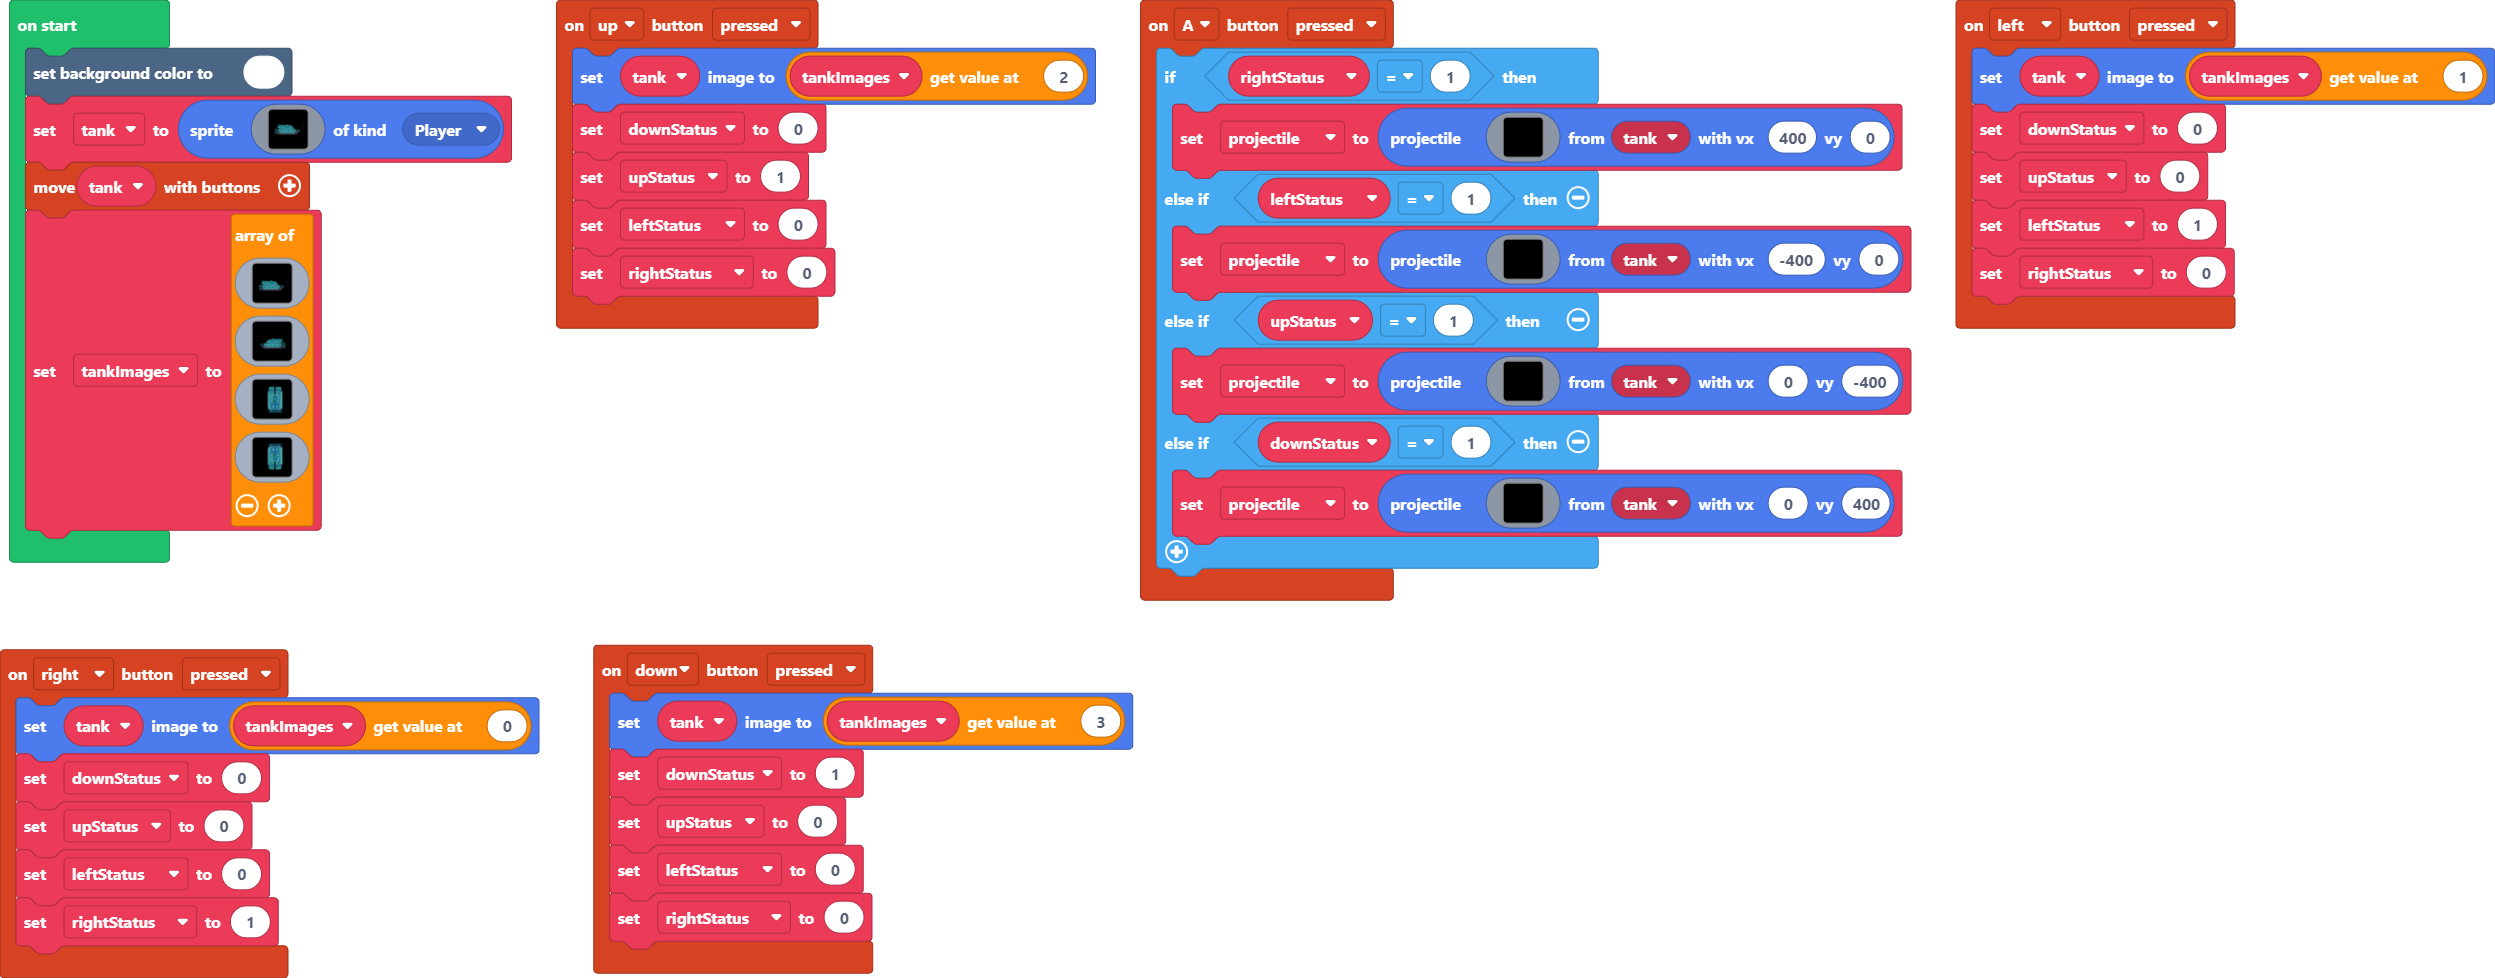
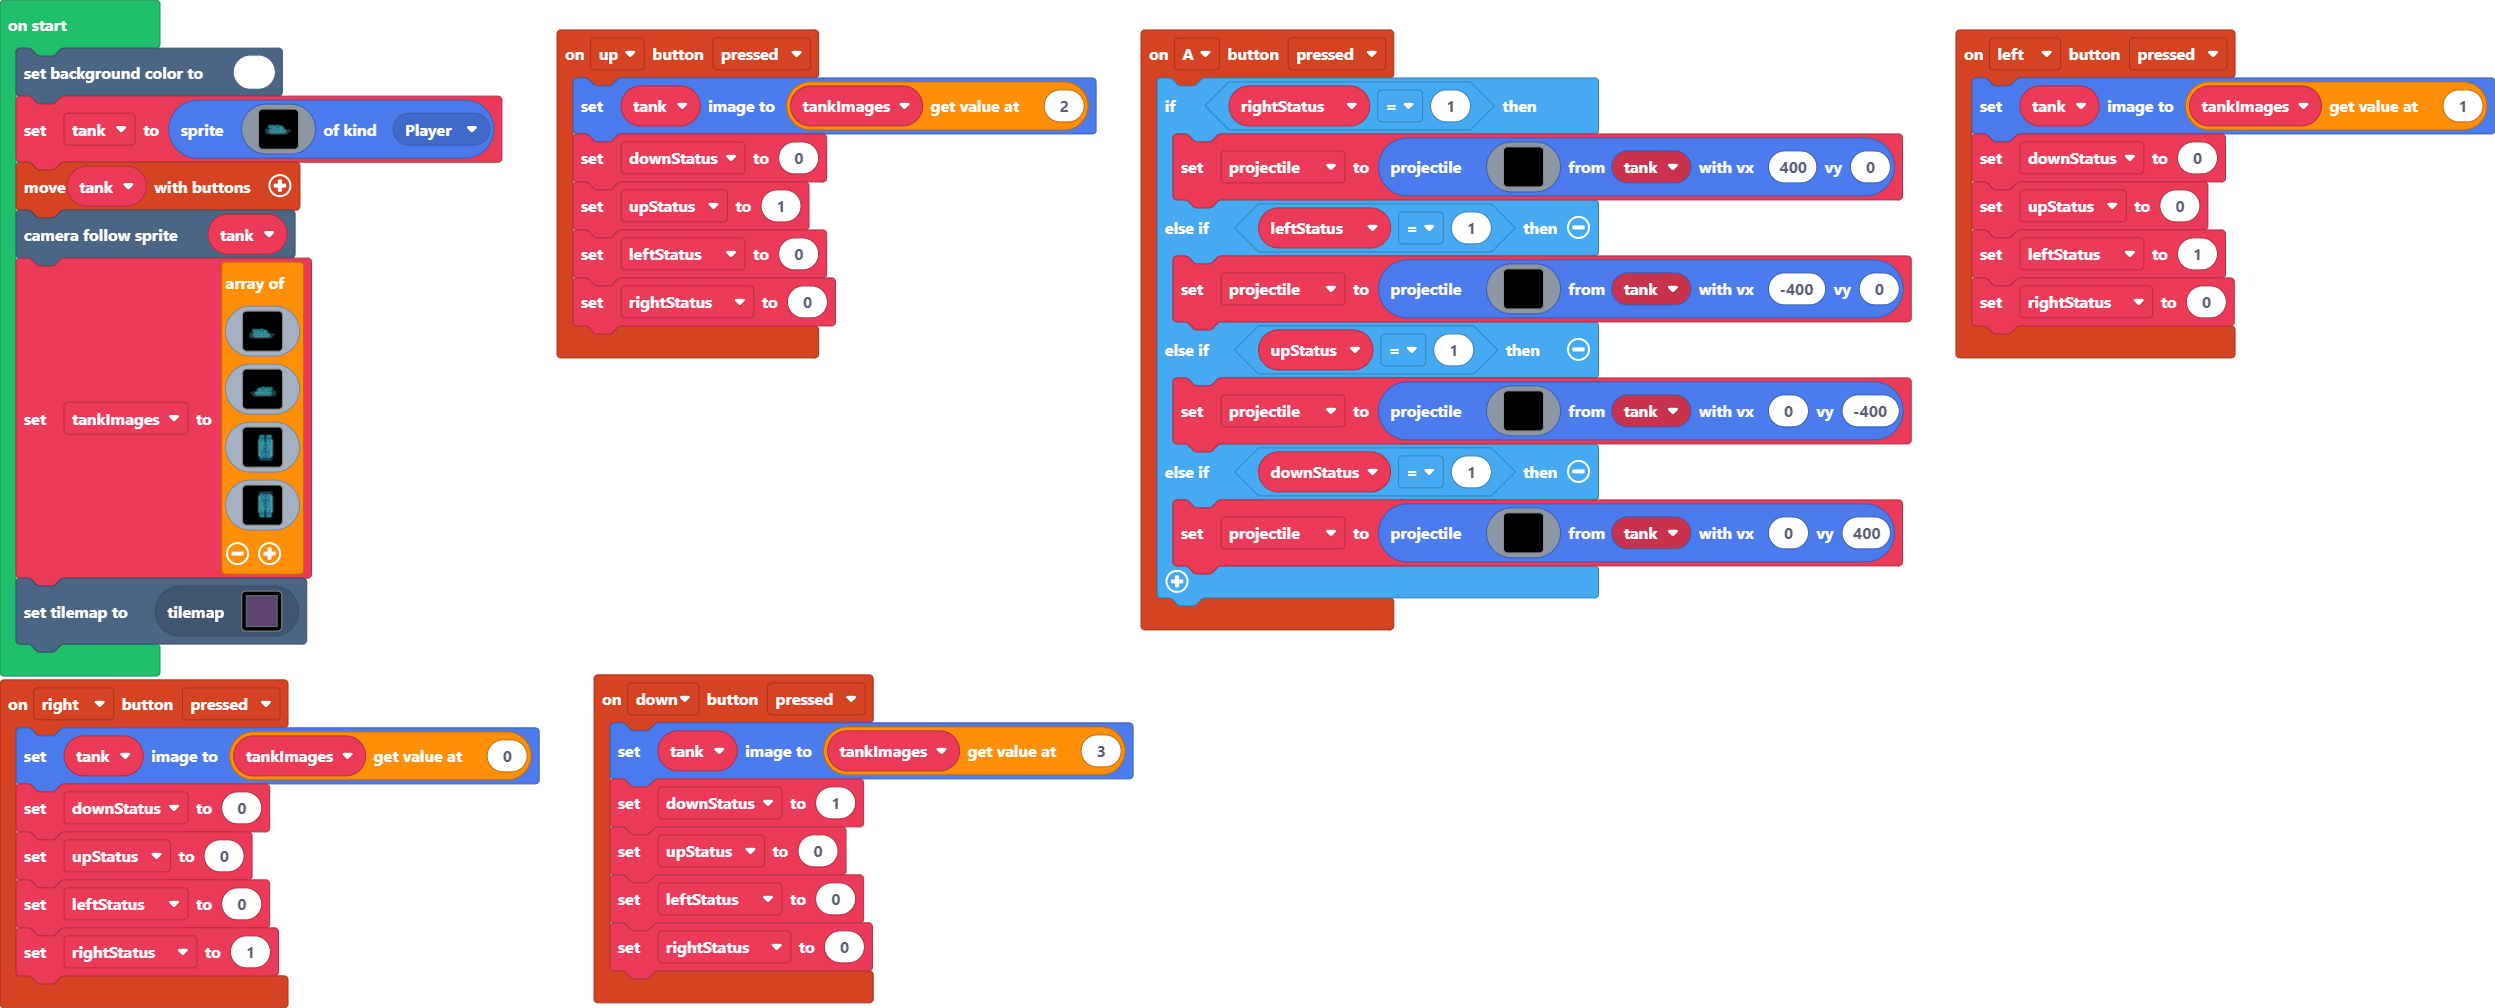
Update main.blocks, main.ts, tilemap.g.jres, tilemap.g.ts

Changed region(s): [[0.0, 0.0, 1.0, 0.9816], [0.216, 0.6442, 0.4629, 0.9509]]

diff --git a/tilemap.g.ts b/tilemap.g.ts
@@ -6,7 +6,7 @@ namespace myTiles {
     helpers._registerFactory("tilemap", function(name: string) {
         switch(helpers.stringTrim(name)) {
             case "level1":
[2 lines of base64/hex data omitted]
 22222222222222222222222222222222
 2..............................2
 2..............................2
@@ -39,7 +39,254 @@ namespace myTiles {
 2..............................2
 2..............................2
 22222222222222222222222222222222
-`, [myTiles.transparency16,sprites.dungeon.greenOuterNorthWest,sprites.dungeon.greenOuterNorth0,sprites.dungeon.greenOuterNorthEast,sprites.dungeon.greenOuterEast0,sprites.dungeon.greenOuterSouth1,sprites.dungeon.greenOuterWest0,sprites.dungeon.greenOuterSouthEast,sprites.dungeon.greenOuterSouthWest,sprites.dungeon.darkGroundNorth,sprites.dungeon.darkGroundEast,sprites.dungeon.darkGroundSouthEast0,sprites.dungeon.darkGroundNorthEast0,sprites.dungeon.darkGroundNorthWest0,sprites.dungeon.darkGroundSouthWest0,sprites.dungeon.darkGroundWest,sprites.dungeon.darkGroundSouth,sprites.dungeon.darkGroundCenter], TileScale.Sixteen);
+`, [myTiles.transparency16,sprites.dungeon.darkGroundNorthWest0,sprites.dungeon.greenOuterNorthWest,sprites.dungeon.greenOuterNorth0,sprites.dungeon.greenOuterEast0,sprites.dungeon.greenOuterNorthEast,sprites.dungeon.greenOuterSouthWest,sprites.dungeon.greenOuterSouthEast,sprites.dungeon.greenOuterSouth1,sprites.dungeon.greenOuterWest0,sprites.dungeon.darkGroundNorthEast0,sprites.dungeon.darkGroundSouthEast0,sprites.dungeon.darkGroundSouthWest0,sprites.dungeon.darkGroundSouth,sprites.dungeon.darkGroundWest,sprites.dungeon.darkGroundNorth,sprites.dungeon.darkGroundEast,sprites.dungeon.darkGroundCenter], TileScale.Sixteen);
+            case "level2":
+            case "level2":return tiles.createTilemap(hex`1000100000000000000000000000000000000000000000000000000000000000000000000000000000000000000000000000000000000000000000000000000000000000000000000000000000000000000000000000000000000000000000000000000000000000000000000000000000000000000000000000000000000000000000000000000000000000000000000000000000000000000000000000000000000000000000000000000000000000000000000000000000000000000000000000000000000000000000000000000000000000000000000000000000000000000000000000000000000000000000000000000000000000000000000000000000000000`, img`
+. . . . . . . . . . . . . . . . 
+. . . . . . . . . . . . . . . . 
+. . . . . . . . . . . . . . . . 
+. . . . . . . . . . . . . . . . 
+. . . . . . . . . . . . . . . . 
+. . . . . . . . . . . . . . . . 
+. . . . . . . . . . . . . . . . 
+. . . . . . . . . . . . . . . . 
+. . . . . . . . . . . . . . . . 
+. . . . . . . . . . . . . . . . 
+. . . . . . . . . . . . . . . . 
+. . . . . . . . . . . . . . . . 
+. . . . . . . . . . . . . . . . 
+. . . . . . . . . . . . . . . . 
+. . . . . . . . . . . . . . . . 
+. . . . . . . . . . . . . . . . 
+`, [myTiles.transparency16], TileScale.Sixteen);
+            case "level3":
+            case "level3":return tiles.createTilemap(hex`1000100000000000000000000000000000000000000000000000000000000000000000000000000000000000000000000000000000000000000000000000000000000000000000000000000000000000000000000000000000000000000000000000000000000000000000000000000000000000000000000000000000000000000000000000000000000000000000000000000000000000000000000000000000000000000000000000000000000000000000000000000000000000000000000000000000000000000000000000000000000000000000000000000000000000000000000000000000000000000000000000000000000000000000000000000000000000`, img`
+. . . . . . . . . . . . . . . . 
+. . . . . . . . . . . . . . . . 
+. . . . . . . . . . . . . . . . 
+. . . . . . . . . . . . . . . . 
+. . . . . . . . . . . . . . . . 
+. . . . . . . . . . . . . . . . 
+. . . . . . . . . . . . . . . . 
+. . . . . . . . . . . . . . . . 
+. . . . . . . . . . . . . . . . 
+. . . . . . . . . . . . . . . . 
+. . . . . . . . . . . . . . . . 
+. . . . . . . . . . . . . . . . 
+. . . . . . . . . . . . . . . . 
+. . . . . . . . . . . . . . . . 
+. . . . . . . . . . . . . . . . 
+. . . . . . . . . . . . . . . . 
+`, [myTiles.transparency16], TileScale.Sixteen);
+            case "level4":
+            case "level4":return tiles.createTilemap(hex`1000100000000000000000000000000000000000000000000000000000000000000000000000000000000000000000000000000000000000000000000000000000000000000000000000000000000000000000000000000000000000000000000000000000000000000000000000000000000000000000000000000000000000000000000000000000000000000000000000000000000000000000000000000000000000000000000000000000000000000000000000000000000000000000000000000000000000000000000000000000000000000000000000000000000000000000000000000000000000000000000000000000000000000000000000000000000000`, img`
+. . . . . . . . . . . . . . . . 
+. . . . . . . . . . . . . . . . 
+. . . . . . . . . . . . . . . . 
+. . . . . . . . . . . . . . . . 
+. . . . . . . . . . . . . . . . 
+. . . . . . . . . . . . . . . . 
+. . . . . . . . . . . . . . . . 
+. . . . . . . . . . . . . . . . 
+. . . . . . . . . . . . . . . . 
+. . . . . . . . . . . . . . . . 
+. . . . . . . . . . . . . . . . 
+. . . . . . . . . . . . . . . . 
+. . . . . . . . . . . . . . . . 
+. . . . . . . . . . . . . . . . 
+. . . . . . . . . . . . . . . . 
+. . . . . . . . . . . . . . . . 
+`, [myTiles.transparency16], TileScale.Sixteen);
+            case "level5":
+            case "level5":return tiles.createTilemap(hex`1000100000000000000000000000000000000000000000000000000000000000000000000000000000000000000000000000000000000000000000000000000000000000000000000000000000000000000000000000000000000000000000000000000000000000000000000000000000000000000000000000000000000000000000000000000000000000000000000000000000000000000000000000000000000000000000000000000000000000000000000000000000000000000000000000000000000000000000000000000000000000000000000000000000000000000000000000000000000000000000000000000000000000000000000000000000000000`, img`
+. . . . . . . . . . . . . . . . 
+. . . . . . . . . . . . . . . . 
+. . . . . . . . . . . . . . . . 
+. . . . . . . . . . . . . . . . 
+. . . . . . . . . . . . . . . . 
+. . . . . . . . . . . . . . . . 
+. . . . . . . . . . . . . . . . 
+. . . . . . . . . . . . . . . . 
+. . . . . . . . . . . . . . . . 
+. . . . . . . . . . . . . . . . 
+. . . . . . . . . . . . . . . . 
+. . . . . . . . . . . . . . . . 
+. . . . . . . . . . . . . . . . 
+. . . . . . . . . . . . . . . . 
+. . . . . . . . . . . . . . . . 
+. . . . . . . . . . . . . . . . 
+`, [myTiles.transparency16], TileScale.Sixteen);
+            case "level6":
+            case "level6":return tiles.createTilemap(hex`1000100000000000000000000000000000000000000000000000000000000000000000000000000000000000000000000000000000000000000000000000000000000000000000000000000000000000000000000000000000000000000000000000000000000000000000000000000000000000000000000000000000000000000000000000000000000000000000000000000000000000000000000000000000000000000000000000000000000000000000000000000000000000000000000000000000000000000000000000000000000000000000000000000000000000000000000000000000000000000000000000000000000000000000000000000000000000`, img`
+. . . . . . . . . . . . . . . . 
+. . . . . . . . . . . . . . . . 
+. . . . . . . . . . . . . . . . 
+. . . . . . . . . . . . . . . . 
+. . . . . . . . . . . . . . . . 
+. . . . . . . . . . . . . . . . 
+. . . . . . . . . . . . . . . . 
+. . . . . . . . . . . . . . . . 
+. . . . . . . . . . . . . . . . 
+. . . . . . . . . . . . . . . . 
+. . . . . . . . . . . . . . . . 
+. . . . . . . . . . . . . . . . 
+. . . . . . . . . . . . . . . . 
+. . . . . . . . . . . . . . . . 
+. . . . . . . . . . . . . . . . 
+. . . . . . . . . . . . . . . . 
+`, [myTiles.transparency16], TileScale.Sixteen);
+            case "level7":
+            case "level7":return tiles.createTilemap(hex`1000100000000000000000000000000000000000000000000000000000000000000000000000000000000000000000000000000000000000000000000000000000000000000000000000000000000000000000000000000000000000000000000000000000000000000000000000000000000000000000000000000000000000000000000000000000000000000000000000000000000000000000000000000000000000000000000000000000000000000000000000000000000000000000000000000000000000000000000000000000000000000000000000000000000000000000000000000000000000000000000000000000000000000000000000000000000000`, img`
+. . . . . . . . . . . . . . . . 
+. . . . . . . . . . . . . . . . 
+. . . . . . . . . . . . . . . . 
+. . . . . . . . . . . . . . . . 
+. . . . . . . . . . . . . . . . 
+. . . . . . . . . . . . . . . . 
+. . . . . . . . . . . . . . . . 
+. . . . . . . . . . . . . . . . 
+. . . . . . . . . . . . . . . . 
+. . . . . . . . . . . . . . . . 
+. . . . . . . . . . . . . . . . 
+. . . . . . . . . . . . . . . . 
+. . . . . . . . . . . . . . . . 
+. . . . . . . . . . . . . . . . 
+. . . . . . . . . . . . . . . . 
+. . . . . . . . . . . . . . . . 
+`, [myTiles.transparency16], TileScale.Sixteen);
+            case "level8":
+            case "level8":return tiles.createTilemap(hex`1000100000000000000000000000000000000000000000000000000000000000000000000000000000000000000000000000000000000000000000000000000000000000000000000000000000000000000000000000000000000000000000000000000000000000000000000000000000000000000000000000000000000000000000000000000000000000000000000000000000000000000000000000000000000000000000000000000000000000000000000000000000000000000000000000000000000000000000000000000000000000000000000000000000000000000000000000000000000000000000000000000000000000000000000000000000000000`, img`
+. . . . . . . . . . . . . . . . 
+. . . . . . . . . . . . . . . . 
+. . . . . . . . . . . . . . . . 
+. . . . . . . . . . . . . . . . 
+. . . . . . . . . . . . . . . . 
+. . . . . . . . . . . . . . . . 
+. . . . . . . . . . . . . . . . 
+. . . . . . . . . . . . . . . . 
+. . . . . . . . . . . . . . . . 
+. . . . . . . . . . . . . . . . 
+. . . . . . . . . . . . . . . . 
+. . . . . . . . . . . . . . . . 
+. . . . . . . . . . . . . . . . 
+. . . . . . . . . . . . . . . . 
+. . . . . . . . . . . . . . . . 
+. . . . . . . . . . . . . . . . 
+`, [myTiles.transparency16], TileScale.Sixteen);
+            case "level9":
+            case "level9":return tiles.createTilemap(hex`1000100000000000000000000000000000000000000000000000000000000000000000000000000000000000000000000000000000000000000000000000000000000000000000000000000000000000000000000000000000000000000000000000000000000000000000000000000000000000000000000000000000000000000000000000000000000000000000000000000000000000000000000000000000000000000000000000000000000000000000000000000000000000000000000000000000000000000000000000000000000000000000000000000000000000000000000000000000000000000000000000000000000000000000000000000000000000`, img`
+. . . . . . . . . . . . . . . . 
+. . . . . . . . . . . . . . . . 
+. . . . . . . . . . . . . . . . 
+. . . . . . . . . . . . . . . . 
+. . . . . . . . . . . . . . . . 
+. . . . . . . . . . . . . . . . 
+. . . . . . . . . . . . . . . . 
+. . . . . . . . . . . . . . . . 
+. . . . . . . . . . . . . . . . 
+. . . . . . . . . . . . . . . . 
+. . . . . . . . . . . . . . . . 
+. . . . . . . . . . . . . . . . 
+. . . . . . . . . . . . . . . . 
+. . . . . . . . . . . . . . . . 
+. . . . . . . . . . . . . . . . 
+. . . . . . . . . . . . . . . . 
+`, [myTiles.transparency16], TileScale.Sixteen);
+            case "level10":
+            case "level10":return tiles.createTilemap(hex`1000100000000000000000000000000000000000000000000000000000000000000000000000000000000000000000000000000000000000000000000000000000000000000000000000000000000000000000000000000000000000000000000000000000000000000000000000000000000000000000000000000000000000000000000000000000000000000000000000000000000000000000000000000000000000000000000000000000000000000000000000000000000000000000000000000000000000000000000000000000000000000000000000000000000000000000000000000000000000000000000000000000000000000000000000000000000000`, img`
+. . . . . . . . . . . . . . . . 
+. . . . . . . . . . . . . . . . 
+. . . . . . . . . . . . . . . . 
+. . . . . . . . . . . . . . . . 
+. . . . . . . . . . . . . . . . 
+. . . . . . . . . . . . . . . . 
+. . . . . . . . . . . . . . . . 
+. . . . . . . . . . . . . . . . 
+. . . . . . . . . . . . . . . . 
+. . . . . . . . . . . . . . . . 
+. . . . . . . . . . . . . . . . 
+. . . . . . . . . . . . . . . . 
+. . . . . . . . . . . . . . . . 
+. . . . . . . . . . . . . . . . 
+. . . . . . . . . . . . . . . . 
+. . . . . . . . . . . . . . . . 
+`, [myTiles.transparency16], TileScale.Sixteen);
+            case "level11":
+            case "level11":return tiles.createTilemap(hex`1000100000000000000000000000000000000000000000000000000000000000000000000000000000000000000000000000000000000000000000000000000000000000000000000000000000000000000000000000000000000000000000000000000000000000000000000000000000000000000000000000000000000000000000000000000000000000000000000000000000000000000000000000000000000000000000000000000000000000000000000000000000000000000000000000000000000000000000000000000000000000000000000000000000000000000000000000000000000000000000000000000000000000000000000000000000000000`, img`
+. . . . . . . . . . . . . . . . 
+. . . . . . . . . . . . . . . . 
+. . . . . . . . . . . . . . . . 
+. . . . . . . . . . . . . . . . 
+. . . . . . . . . . . . . . . . 
+. . . . . . . . . . . . . . . . 
+. . . . . . . . . . . . . . . . 
+. . . . . . . . . . . . . . . . 
+. . . . . . . . . . . . . . . . 
+. . . . . . . . . . . . . . . . 
+. . . . . . . . . . . . . . . . 
+. . . . . . . . . . . . . . . . 
+. . . . . . . . . . . . . . . . 
+. . . . . . . . . . . . . . . . 
+. . . . . . . . . . . . . . . . 
+. . . . . . . . . . . . . . . . 
+`, [myTiles.transparency16], TileScale.Sixteen);
+            case "level12":
+            case "level12":return tiles.createTilemap(hex`1000100000000000000000000000000000000000000000000000000000000000000000000000000000000000000000000000000000000000000000000000000000000000000000000000000000000000000000000000000000000000000000000000000000000000000000000000000000000000000000000000000000000000000000000000000000000000000000000000000000000000000000000000000000000000000000000000000000000000000000000000000000000000000000000000000000000000000000000000000000000000000000000000000000000000000000000000000000000000000000000000000000000000000000000000000000000000`, img`
+. . . . . . . . . . . . . . . . 
+. . . . . . . . . . . . . . . . 
+. . . . . . . . . . . . . . . . 
+. . . . . . . . . . . . . . . . 
+. . . . . . . . . . . . . . . . 
+. . . . . . . . . . . . . . . . 
+. . . . . . . . . . . . . . . . 
+. . . . . . . . . . . . . . . . 
+. . . . . . . . . . . . . . . . 
+. . . . . . . . . . . . . . . . 
+. . . . . . . . . . . . . . . . 
+. . . . . . . . . . . . . . . . 
+. . . . . . . . . . . . . . . . 
+. . . . . . . . . . . . . . . . 
+. . . . . . . . . . . . . . . . 
+. . . . . . . . . . . . . . . . 
+`, [myTiles.transparency16], TileScale.Sixteen);
+            case "level13":
+            case "level13":return tiles.createTilemap(hex`1000100000000000000000000000000000000000000000000000000000000000000000000000000000000000000000000000000000000000000000000000000000000000000000000000000000000000000000000000000000000000000000000000000000000000000000000000000000000000000000000000000000000000000000000000000000000000000000000000000000000000000000000000000000000000000000000000000000000000000000000000000000000000000000000000000000000000000000000000000000000000000000000000000000000000000000000000000000000000000000000000000000000000000000000000000000000000`, img`
+. . . . . . . . . . . . . . . . 
+. . . . . . . . . . . . . . . . 
+. . . . . . . . . . . . . . . . 
+. . . . . . . . . . . . . . . . 
+. . . . . . . . . . . . . . . . 
+. . . . . . . . . . . . . . . . 
+. . . . . . . . . . . . . . . . 
+. . . . . . . . . . . . . . . . 
+. . . . . . . . . . . . . . . . 
+. . . . . . . . . . . . . . . . 
+. . . . . . . . . . . . . . . . 
+. . . . . . . . . . . . . . . . 
+. . . . . . . . . . . . . . . . 
+. . . . . . . . . . . . . . . . 
+. . . . . . . . . . . . . . . . 
+. . . . . . . . . . . . . . . . 
+`, [myTiles.transparency16], TileScale.Sixteen);
+            case "level14":
+            case "level14":return tiles.createTilemap(hex`1000100000000000000000000000000000000000000000000000000000000000000000000000000000000000000000000000000000000000000000000000000000000000000000000000000000000000000000000000000000000000000000000000000000000000000000000000000000000000000000000000000000000000000000000000000000000000000000000000000000000000000000000000000000000000000000000000000000000000000000000000000000000000000000000000000000000000000000000000000000000000000000000000000000000000000000000000000000000000000000000000000000000000000000000000000000000000`, img`
+. . . . . . . . . . . . . . . . 
+. . . . . . . . . . . . . . . . 
+. . . . . . . . . . . . . . . . 
+. . . . . . . . . . . . . . . . 
+. . . . . . . . . . . . . . . . 
+. . . . . . . . . . . . . . . . 
+. . . . . . . . . . . . . . . . 
+. . . . . . . . . . . . . . . . 
+. . . . . . . . . . . . . . . . 
+. . . . . . . . . . . . . . . . 
+. . . . . . . . . . . . . . . . 
+. . . . . . . . . . . . . . . . 
+. . . . . . . . . . . . . . . . 
+. . . . . . . . . . . . . . . . 
+. . . . . . . . . . . . . . . . 
+. . . . . . . . . . . . . . . . 
+`, [myTiles.transparency16], TileScale.Sixteen);
         }
         return null;
     })

diff --git a/main.ts b/main.ts
@@ -148,6 +148,7 @@ tank = sprites.create(img`
     ................................................................
     `, SpriteKind.Player)
 controller.moveSprite(tank)
+scene.cameraFollowSprite(tank)
 tankImages = [
 img`
     ................................................................
@@ -350,3 +351,4 @@ img`
     .............................ff.................
     `
 ]
+tiles.setCurrentTilemap(tilemap`level1`)
